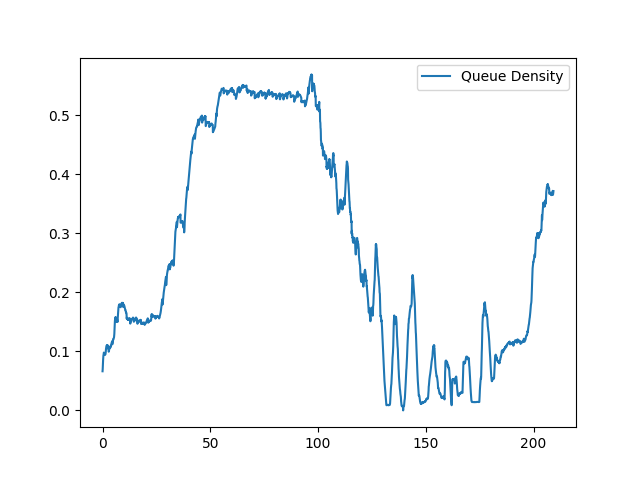
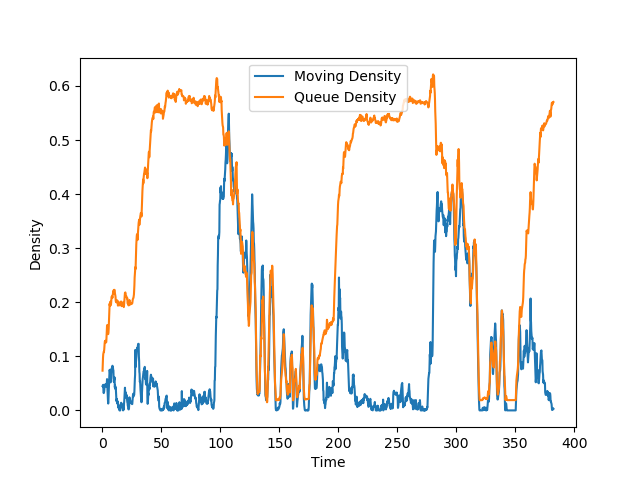
Updated Baseline

diff --git a/Assignment1/Baseline.cpp b/Assignment1/Baseline.cpp
@@ -37,12 +37,12 @@ void get(int x)
     Mat crop, view;
     long long framenum = 0;
     ofstream file;
-    file.open("stationary.csv");
+    file.open("queue.csv");
     Mat empty = imread("empty2.png");
     cvtColor(empty, empty, COLOR_BGR2GRAY);
     warpPerspective(empty, empty, change, empty.size());
     empty = empty(Rect(472, 52, 328, 778));
-    cout << "Stationary Density" << '\n';
+    cout << "Queue Density" << '\n';
     cap2.read(frame);
     bool next;
     while (true)
